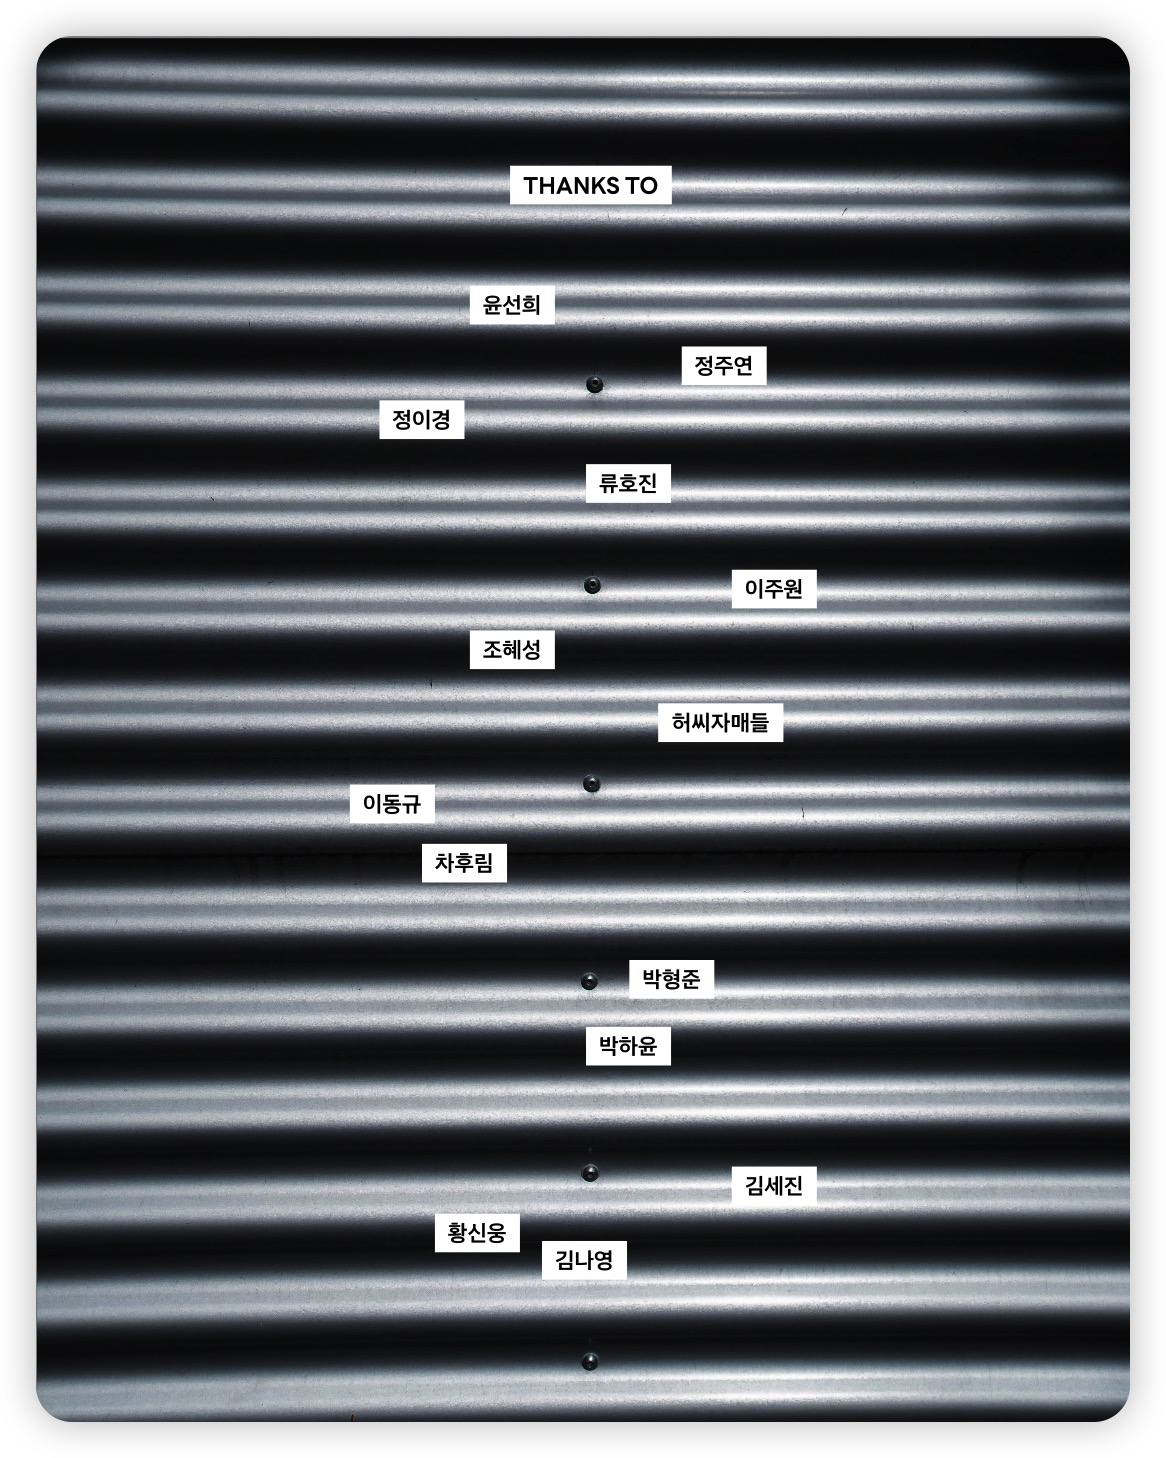
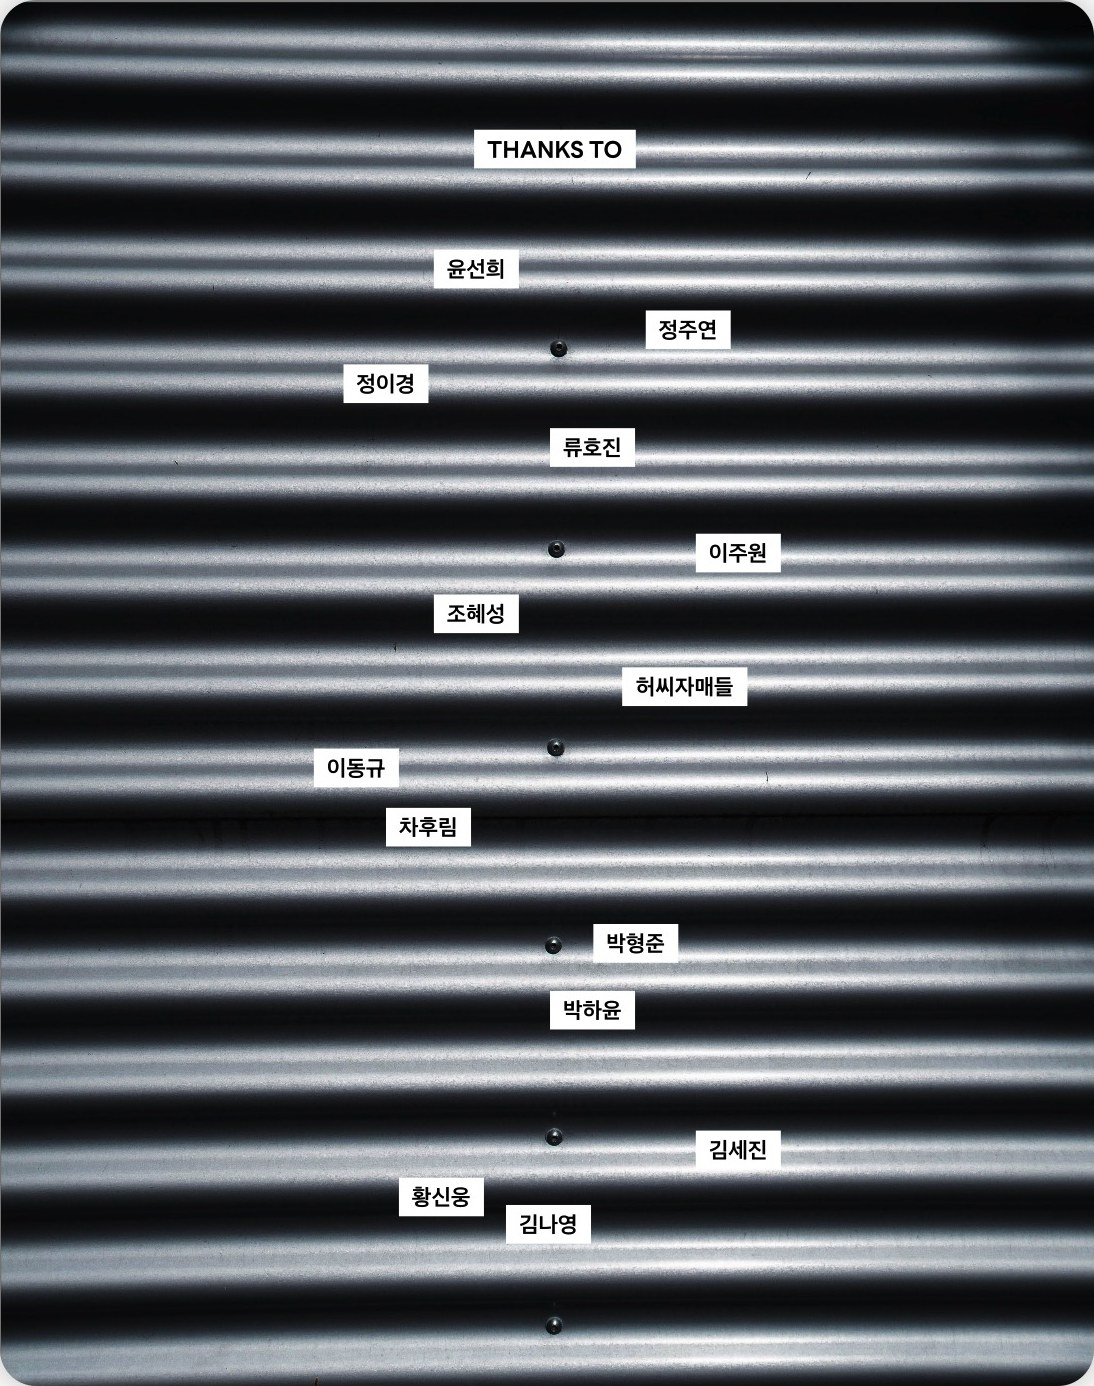
THANKS TO 사진 흰 테두리 trim + 좌표 재변환
원본 사진에 36px 흰 padding 이 있어 PIL 로 자동 crop (1166×1458 →
1094×1386, 386KB → 291KB). 사진 비율 + 14개 hotspot 좌표 모두 새
프레임 기준으로 변환 (new_pct = (old_pct*OLD - 3600)/NEW).

diff --git a/src/components/ThanksWall.tsx b/src/components/ThanksWall.tsx
@@ -12,22 +12,23 @@ import { AnimatePresence, motion } from "framer-motion";
 type Person = { name: string; role: string; x: number; y: number };
 
 // 좌표(%) 는 사진에 5% grid 를 덮어 직접 측정한 이름표 중심 픽셀.
-// 사진(1166×1458) 비율을 고정해서 반응형으로 자동 스케일됨.
+// 사진(1094×1386) 비율을 고정해서 반응형으로 자동 스케일됨.
+// (원본 1166×1458 에서 36px 흰 테두리 trim 후 좌표 변환 적용.)
 const PEOPLE: Person[] = [
-  { name: "선희", role: "작업실의 밥 로스 겸 멘탈 테라피스트", x: 42, y: 21 },
-  { name: "주연", role: "전시계획 디렉터 겸 렌더 후보정팀", x: 62, y: 25 },
-  { name: "이경", role: "모형 총감독", x: 36, y: 28 },
-  { name: "호진", role: "웹사이트 제작자 겸 생존지원팀", x: 53, y: 33 },
-  { name: "주원", role: "판넬·영상 제작지원팀", x: 67, y: 40 },
-  { name: "혜성", role: "설계의 북극성 겸 영상지원팀", x: 44, y: 45 },
-  { name: "허씨자매들", role: "긴급지원팀", x: 63, y: 50 },
-  { name: "동규", role: "모형·3D 프린팅 제작지원팀", x: 34, y: 55 },
-  { name: "후림", role: "모형·3D 프린팅 제작지원팀", x: 40, y: 59 },
-  { name: "형준", role: "멘탈케어 겸 운반지원팀", x: 58, y: 67 },
-  { name: "하윤", role: "디테일 긴급구조대", x: 54, y: 72 },
-  { name: "세진", role: "조경 방향잡이", x: 65, y: 81 },
-  { name: "신웅", role: "깨알 디테일팀", x: 41, y: 85 },
-  { name: "나영", role: "디테일 겸 졸전 기동지원대", x: 50, y: 87 },
+  { name: "선희", role: "작업실의 밥 로스 겸 멘탈 테라피스트", x: 41.5, y: 19.5 },
+  { name: "주연", role: "전시계획 디렉터 겸 렌더 후보정팀", x: 62.8, y: 23.7 },
+  { name: "이경", role: "모형 총감독", x: 35.1, y: 26.9 },
+  { name: "호진", role: "웹사이트 제작자 겸 생존지원팀", x: 53.2, y: 32.1 },
+  { name: "주원", role: "판넬·영상 제작지원팀", x: 68.1, y: 39.5 },
+  { name: "혜성", role: "설계의 북극성 겸 영상지원팀", x: 43.6, y: 44.7 },
+  { name: "허씨자매들", role: "긴급지원팀", x: 63.9, y: 50.0 },
+  { name: "동규", role: "모형·3D 프린팅 제작지원팀", x: 32.9, y: 55.3 },
+  { name: "후림", role: "모형·3D 프린팅 제작지원팀", x: 39.3, y: 59.5 },
+  { name: "형준", role: "멘탈케어 겸 운반지원팀", x: 58.5, y: 67.9 },
+  { name: "하윤", role: "디테일 긴급구조대", x: 54.3, y: 73.1 },
+  { name: "세진", role: "조경 방향잡이", x: 66.0, y: 82.6 },
+  { name: "신웅", role: "깨알 디테일팀", x: 40.4, y: 86.8 },
+  { name: "나영", role: "디테일 겸 졸전 기동지원대", x: 50.0, y: 88.9 },
 ];
 
 export function ThanksWall() {
@@ -37,7 +38,7 @@ export function ThanksWall() {
     <figure className="mx-auto w-full max-w-[680px]">
       <div
         className="relative w-full overflow-hidden border border-line bg-paper-soft"
-        style={{ aspectRatio: "1166 / 1458" }}
+        style={{ aspectRatio: "1094 / 1386" }}
       >
         <img
           src={`${import.meta.env.BASE_URL}media/thanks-wall.jpg`}
